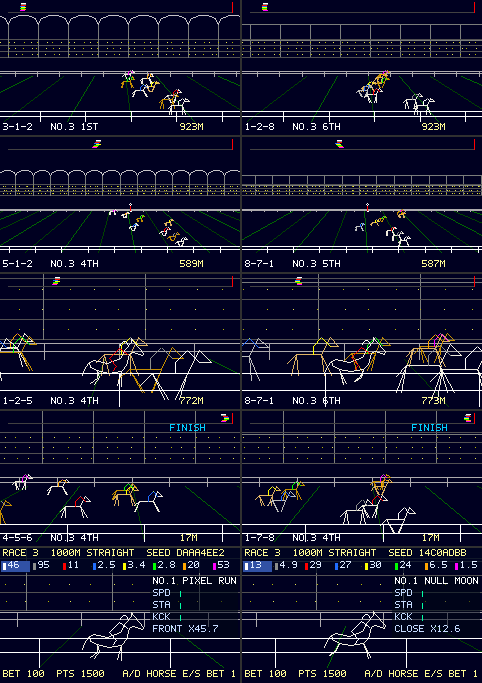
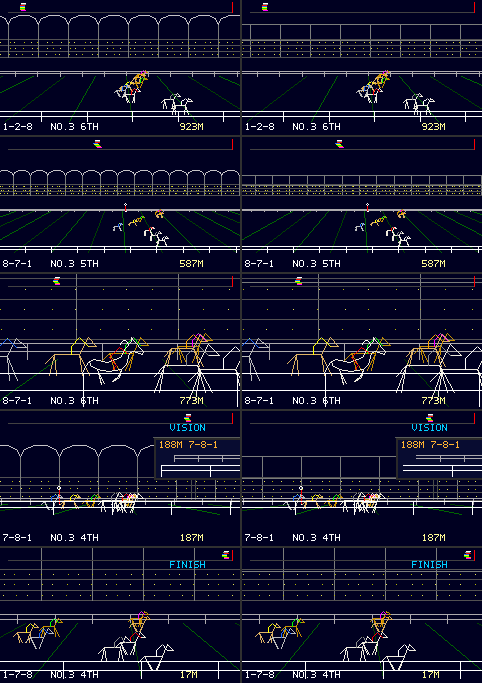
docs(derby): number types on the VM, the unified camera, shortcuts
Device: an int32 add is 1.59 us against 2.25 for a double, a Q16
multiply 2.24 against 2.49; the interpreter's dispatch dominates, so
fixed point would save about 1 ms at most (tools/games/pancost/num).
Stage 3b (every camera through the panning projection): guest +6.9 KB
over stage 2 (stage 3 +11.1), 27 plans, eval margin 18,667 B, but the
side WIDE drops to 25.7 fps and LOADSTALL stays; fewer Newton steps err
by 1.8 to 40 px and save no memory (a plan's size is fixed). The table
in docs/apps/derby-pan-memory.md shows how far each condition stays.

Claude-Session: https://claude.ai/code/session_015dmtSzSe5gccZdUgWX7xC5

diff --git a/tools/games/pancost/num/derby_watch.js b/tools/games/pancost/num/derby_watch.js
@@ -1,0 +1,65 @@
+// Number-type bench (docs/apps/derby-pan-camera-cost.md "整数と倍精度"): runs
+// from the DERBY WATCH row in a DERBY_BGCOST_SOURCE image. Each case [name,
+// n] holds for HOLD frames and is announced by one 'BGS name n' line; the per
+// iteration cost is the slope of the JS turn (MDT js=) over n, less the empty
+// loop's (tools/games/pancost/pancost_device.py). QuickJS keeps small
+// integers as tagged int32 and everything else as IEEE doubles; the S3's FPU
+// is single precision only.
+(function () {
+  'use strict';
+  const M = Math, imul = M.imul;
+  let sink = 0;
+  const A64 = [], I32 = new Int32Array(64), I16 = new Int16Array(64), F32 = new Float32Array(64), F64 = new Float64Array(64);
+  for (let i = 0; i < 64; ++i) { A64.push(i); I32[i] = i; I16[i] = i; F32[i] = i + .5; F64[i] = i + .5; }
+  // Loop bodies. i* keep int32 (results stay small or are truncated), d*
+  // are doubles, q* fixed point (Q8, Q16) in int32.
+  const JS = {
+    loop: n => { for (let i = 0; i < n; ++i) {} },
+    iadd: n => { let s = 1; for (let i = 0; i < n; ++i) s = (s + 7) & 1023; sink = s; },
+    iadd0: n => { let s = 1; for (let i = 0; i < n; ++i) s = s + 7; sink = s; },
+    imul: n => { let s = 1; for (let i = 0; i < n; ++i) s = (s * 3) & 1023; sink = s; },
+    iimul: n => { let s = 1; for (let i = 0; i < n; ++i) s = imul(s, 7) | 1; sink = s; },
+    icmp: n => { let s = 0; const b = 500; for (let i = 0; i < n; ++i) if (i < b) s = 1; sink = s; },
+    ishl: n => { let s = 1; for (let i = 0; i < n; ++i) s = (s << 1) & 65535 | 1; sink = s; },
+    ishr: n => { let s = 65535; for (let i = 0; i < n; ++i) s = (s >> 1) | 32768; sink = s; },
+    q8: n => { let s = 300; const b = 257; for (let i = 0; i < n; ++i) s = (s * b) >> 8; sink = s; },
+    q16: n => { let s = 30000; const b = 32767; for (let i = 0; i < n; ++i) s = (s * b) >> 15; sink = s; },
+    q16i: n => { let s = 30000; const b = 32767; for (let i = 0; i < n; ++i) s = imul(s, b) >> 15; sink = s; },
+    dadd: n => { let s = 1.5; const b = .37; for (let i = 0; i < n; ++i) s = s + b; sink = s; },
+    dmul: n => { let s = 1.5; const b = 1.0000001; for (let i = 0; i < n; ++i) s = s * b; sink = s; },
+    ddiv: n => { let s = 1.5; const b = 1.0000001; for (let i = 0; i < n; ++i) s = s / b; sink = s; },
+    dcmp: n => { let s = 0; const a = 1.5, b = 2.5; for (let i = 0; i < n; ++i) if (a < b) s = 1; sink = s; },
+    mix: n => { let s = 1.5; for (let i = 0; i < n; ++i) s = s + 7; sink = s; },
+    mixm: n => { let s = 0; const b = .5; for (let i = 0; i < n; ++i) s = i * b; sink = s; },
+    ar: n => { let s = 0; for (let i = 0; i < n; ++i) s = A64[i & 63]; sink = s; },
+    aw: n => { for (let i = 0; i < n; ++i) A64[i & 63] = 7; },
+    i32r: n => { let s = 0; for (let i = 0; i < n; ++i) s = I32[i & 63]; sink = s; },
+    i32w: n => { for (let i = 0; i < n; ++i) I32[i & 63] = 7; },
+    i16r: n => { let s = 0; for (let i = 0; i < n; ++i) s = I16[i & 63]; sink = s; },
+    i16w: n => { for (let i = 0; i < n; ++i) I16[i & 63] = 7; },
+    f32r: n => { let s = 0; for (let i = 0; i < n; ++i) s = F32[i & 63]; sink = s; },
+    f32w: n => { const x = 2.37; for (let i = 0; i < n; ++i) F32[i & 63] = x; },
+    f64r: n => { let s = 0; for (let i = 0; i < n; ++i) s = F64[i & 63]; sink = s; },
+    f64w: n => { const x = 2.37; for (let i = 0; i < n; ++i) F64[i & 63] = x; }
+  };
+  const CASES = [];
+  for (const k in JS) for (const n of [0, 500, 1000]) CASES.push([k, n]);
+  const HOLD = 40, V = pocket.kasane, H = V.procedural, log = m => console.log('BGS ' + m);
+  H.beginFrame(0);
+  const res = H.resource(), dot = H.register([[7, 0, 0, 1, 0, 0], [9, 0, 0, 1, 0, 65535]]);
+  let t = 0, built = 0;
+  globalThis.frame = function () {
+    const c = CASES[(t / HOLD | 0) % CASES.length];
+    if (t % HOLD === 0) log(c[0] + ' ' + c[1]);
+    ++t;
+    H.beginFrame(0);
+    H.draw(dot, [120, 130]);
+    JS[c[0]](c[1]);
+    H.commit();
+    if (!built) {
+      built = 1;
+      V.replace(tx => { tx.background(255); tx.image({resource: res, bounds: [0, 0, 240, 135], sourceWidth: 240, sourceHeight: 135}); });
+    } else V.patch(() => {});
+  };
+  log('READY cases=' + CASES.length);
+})();

diff --git a/tools/vmtest/retain_cost.py b/tools/vmtest/retain_cost.py
@@ -6,7 +6,8 @@ versus precompiled bytecode with and without line tables (host, WSL only).
       from apps/derby or from DIR (e.g. a `git show` export: WSL's git may not
       read a worktree's gitdir, CLAUDE.md); prints the three modes of
       tools/vmtest/retain_cost.c.
-  python3 tools/vmtest/retain_cost.py --parts [DIR]
+  python3 tools/vmtest/retain_cost.py --parts|--side [DIR]
+      (--side: the side view's course() and plan strings instead)
       stage 3 of the panning cameras (the wip commit on vm/pan-camera, docs/apps/
       derby-pan-memory.md): each of its top-level functions and plan strings
       removed in turn from those chunks (apps/derby or DIR), and what the
@@ -60,6 +61,9 @@ def charged(binary, mode, paths):
 
 # Stage 3's parts: (chunk, how to find the part). A function is cut from its
 # 'function NAME(' (or 'const NAME =') line to the next top-level line.
+SIDE = [("derby_view.js", "function course("), ("derby_prog.js", "  rail: '"), ("derby_prog.js", "  turf: '"),
+        ("derby_prog.js", "  stands: '"), ("derby_prog.js", "  crowd: '"), ("derby_prog.js", "  gate: '"),
+        ("derby_prog.js", "  pole: '")]
 PARTS = [("derby_scene.js", "function pan("), ("derby_scene.js", "function ser("), ("derby_scene.js", "function hl("),
          ("derby_scene.js", "function pj("), ("derby_scene.js", "function lim("), ("derby_scene.js", "function inr("),
          ("derby_view.js", "function wide("), ("derby_view.js", "const rin ="), ("derby_view.js", "function feed("),
@@ -84,12 +88,12 @@ def main():
     binary = build()
     with tempfile.TemporaryDirectory() as t:
         d = Path(t)
-        if sys.argv[1:2] == ['--parts']:
+        if sys.argv[1:2] in (['--parts'], ['--side']):
             src = sys.argv[2] if len(sys.argv) > 2 else None
             paths = files(src, d)
             whole, _ = charged(binary, 'src', paths)
             print(f"stage 3 chunks compiled: {whole} B")
-            for chunk, start in PARTS:
+            for chunk, start in (PARTS if sys.argv[1] == '--parts' else SIDE):
                 files(src, d)
                 p = d / chunk
                 p.write_text(cut(p.read_text(encoding='utf-8'), start), encoding='utf-8')

diff --git a/tools/games/pancost/pancost_device.py b/tools/games/pancost/pancost_device.py
@@ -38,6 +38,7 @@ def slope(points):
 def main() -> int:
     ap = argparse.ArgumentParser()
     ap.add_argument("logs", nargs="+", type=Path)
+    ap.add_argument("--all-js", action="store_true", help="every case is a JS loop (tools/games/pancost/num)")
     args = ap.parse_args()
 
     def state_of(line, state):
@@ -68,7 +69,7 @@ def main() -> int:
         cells = " ".join(f"{n}:{js:.0f}({len(by_n[n])})" for n, js in pts)
         s, b = slope(pts)
         ds = slope(dr)[0]
-        net = f"{s - loop:.3f}" if loop is not None and name in JS_CASES else "-"
+        net = f"{s - loop:.3f}" if loop is not None and (args.all_js or name in JS_CASES) else "-"
         print(f"{name} | {cells} | {' '.join(f'{d:.0f}' for _, d in dr)} | {s:.3f} | {net} | {ds:.3f} | {b:.0f} | {slope(bd)[0]:.3f}")
     return 0
 

diff --git a/docs/apps/derby-pan-memory.md b/docs/apps/derby-pan-memory.md
@@ -92,3 +92,54 @@ host の評価後のゲスト（m32、段階 2 からの増分。累積で削っ
 - 実機の値の換算（host の 1.3 倍）は 1 点（段階 3 そのまま）の比から。削った版は実機で測っていない。
 - 部分ごとの量は「その部分を消した差」で、共有の atom や、消したことで変わる他の関数のバイトコードを含む（合計は全体と一致しない: 部分の和 7.7 KB、全体 9.4 KB）。
 - (c) の −3.7 KB は host のコンパイル済みの値。実行後の定常にも同じだけ効く（行番号表は関数と一緒に残る）と見込むが、実機では測っていない。
+
+## 4. 横見を首振りの系に統合する（段階 3b、ブランチの 2 つ目の wip コミット）
+
+ユーザーの提案「カメラの統合」。横見の台は「視線がコースの法線に沿う首振り」の特別な場合なので、`course()` を 1 つの投影（`pj()`・`ser()`）で全カメラを描く形にした。plan は高さと地平線を入力で受け（x と z を h·f で割って渡す。1 本目の 1/Z~ は 1 から Newton 20 回）、横見専用の `rail`・`turf`・`stands`・`crowd` の plan を消した。観客は今の見た目のまま（`T.crowd` と同じ sin の散らし・2 色・瞬き。12 m の区画ごとに Newton 3 回、64 命令）。スタンドの屋根の弧は描けなくなった（まっすぐな屋根と中段の線。レジスタが足りず `CUBIC` の 8 本を空けられない）。
+
+**host**（`run_derby.py`、ASan と `--m32`、全 16 回 PASS）: 着順・完走時刻・デモ・種・オッズ・R 再生の行は基準と一致。Newton の誤差はパネル上で最大 0.011 px（LIGHT、f 331）。横見の絵は基準と同じ種・同じフレームで 0.7〜3.4 % の画素が違う（WIDE 3.0 %、FIELD 3.4 %、CLOSE 1.0 %、VISION 2.0 %、FINISH 1.2 %、パドック 0.7 %）。違いの大半は屋根の弧と観客の点の散らし方。
+
+![左: 基準、右: 統合（上から WIDE、FIELD、CLOSE、VISION、FINISH）](derby-unify-preview.png)
+
+| | 基準 | 段階 3 | 統合（3b） |
+| --- | ---: | ---: | ---: |
+| host m32 評価後のゲスト（段階 2 からの増分） | — | +11.1 KB | **+6.9 KB** |
+| コンパイル済みの常駐（`retain_cost.py`） | 53,496 | 63,796 | 60,888 |
+| 同時に載る plan | 25 | 30 | 27 |
+| 実機: 評価の余裕 | 29,969 | 15,242 | **18,667** |
+| 実機: 評価直後のゲスト | 115,124 | 129,620 | 126,268 |
+| 実機: ゲストの最大 | 128,736 | 143,040 | 139,484 |
+| 実機: ターン内の空きの最小 | 13,256 | 5,156 | 5,332 |
+| 実機: `GO LOADSTALL` | なし | 毎レース | 毎レース |
+| 実機 MID: 横見 WIDE fps（JS 中央値 ms） | 29.7（14.2） | 28.5（16.5） | **25.7（20.3）** |
+| 実機 MID: FIELD / VISION / CLOSE fps | 29.5 / 26.7 / 29.8 | 28.6 / 26.9 / 29.8 | 25.5 / 24.0 / 28.7 |
+| 実機 MID: 首振り fps（JS ms） | — | 27.3〜27.8（18〜19、plan が載らない） | 23.3〜23.4（23.5〜23.8） |
+| 実機 HEAVY: 横見 WIDE / FIELD fps | 29.2 / 28.0 | 27.4 / 27.2 | 24.7 / 24.0 |
+
+実機の値は診断 image（`-DKASANE_MEGADEMO_TRACE=ON -DKASANE_BGCOST_TRACE=ON -DPOCKET_KEYTEST=ON`）で MID・HEAVY のデモ各 3 レース、評価の余裕は `heapprobe` の二分探索。段階 3 と統合は plan が全部は載っていない（`LOADSTALL`）状態の値なので、載ればターン内の最小はさらに下がり、fps も下がる。
+
+- **統合はゲストを約 4 KB、plan を 3 本減らした**が、横見が遅くなった: 横見の直線は奥行きが一定なので本来は「拡大＋平行移動」で済むのに、統合では 1 本ごとの Newton の立ち上げ（60 ステップ）、柱 1 本ごとの Newton（9 ステップ）、区画ごとの Newton と点の補間が乗る。横見 WIDE の JS が 14.2 → 20.3 ms（実測）。u = 0 で Newton が「退化して安く」はならない（plan は同じ命令を実行する。分岐が無い）。
+- 楕円（段階 4）への見通し: 統合した系は直線の区間ごとに `ser()` を呼ぶ形で、弧は折れ線の区間の列として同じ plan で描ける（点が直線上に並ぶ前提は区間の中だけ）。ただし上の費用はそのまま残る。
+
+## 5. 精度を落とす・式を縮める（数学の近道）
+
+- **plan の常駐メモリは命令数によらない**（`ksn_proc_plan` は `code[64]` を固定で持つ、`ksn_proc_plan.h`）。命令を減らしても、減るのは VM の時間だけ。メモリに効くのは plan の本数と JS のコード。
+- **Newton を減らす**（host、LIGHT・MID、`DERBY_PAN=0`、統合の版）: 3 回 → 2 回でパネル上の最大誤差 3.8 px（LIGHT）・1.8 px（MID）、1 回で 40 px・28 px。最悪は観客の手前の区画（12 m の区画は近いと奥行きの比が 0.5 を超える）。0.5 px に収めるには、手前の区画を細かい歩幅で描く（draw が増える）か、1 回 1 区画にする必要があり、時間の得は相殺される（推定）。命令は prail 53→50、pt 62→56、観客 64→61 で、メモリは変わらない。
+- **plan の本数を減らす**: 芝の 2 色（`t0`/`t1`）は、1 本の draw の中で色を入れ替えれば 1 本にできる（1 縞 +4 命令、plan −1 本 = ネイティブ −0.87 KB、推定）。観客の 2 色（`c0`/`c1`、瞬きの位相）は、観客の plan が 64 命令・入力 8 個を使い切っていて 1 本にできない。`hl` を `prail` に入れるのも命令が足りない。
+- **式を畳む**: 視野の 4 つの不等式（`lim`）を配列 1 つのループにする、`inr`・`hl` を呼び出し側に入れる、は小さな関数の固定費 約 200 B ずつで、合わせて 0.5〜1 KB（推定）。遠→近の Newton の代わりに「前の 2 点からの一次外挿＋Newton 1 回」は、1 点 1 演算の得（時間）で、レジスタが 1 本要る（観客と柵の plan には空きが無い）。投影を「画面 x = (a + bt)/(c + dt)」として 1 点ずつ Newton で割るのは今の形そのもので、これ以上畳めない。
+
+## 6. 受け入れ条件との差（一覧）
+
+条件: `LOADSTALL` なし、ターン内の空きの最小 ≥ 11,208 B（基準 13,256 − 2 KB）、評価の余裕 ≥ 20 KB、ゲストの最大 ≤ 140 KB、fps ≥ 27。「実測」の行以外は推定（host の差 × 1.3 で実機に換算、plan 1 本 872 B）。
+
+| 構成 | ターン内の最小 | 評価の余裕 | ゲストの最大 | fps（横見 WIDE / 首振り） | LOADSTALL |
+| --- | ---: | ---: | ---: | --- | --- |
+| 段階 3（実測） | 5,156（−6.1 KB） | 15,242（−5.2 KB） | 143,040（+3 KB 超） | 28.5 / 27.3（plan 未載） | あり |
+| 統合 3b（実測） | 5,332（−5.9 KB） | 18,667（−1.8 KB） | 139,484（満たす） | **25.7 / 23.3（−1.3 / −3.7 fps）** | あり |
+| 3b ＋ 芝を 1 本 | 約 6.2 KB（−5.0） | 同じ | 同じ | ほぼ同じ | あり |
+| 3b ＋ 首振りの画面の経路を外す | 約 7.0 KB（−4.2） | 約 19.4 KB | 約 138.7 KB | 同じ | あり |
+| 3b ＋ 行番号表を落とす VM の変更（アプリ全体 −3.7 KB × 1.3） | 約 11.8 KB（満たす見込み） | 約 24 KB（満たす） | 約 134 KB | 同じ | 境目 |
+| 段階 3（横見はそのまま）＋ 行番号表を落とす | 約 10 KB（−1.2） | 約 20 KB（境目） | 約 138 KB | 28.5 / 27 前後 | 境目 |
+
+- 時間の条件は統合で悪くなる（横見 WIDE 25.7 fps）。統合で得たメモリ（約 4 KB と plan 3 本）と引き換えに、横見の fps を 4 落とす。
+- **メモリの条件に届くのは、アプリの外の変更（行番号表を落とす VM の変更、約 5 KB）を足した場合だけ**。その場合も、plan が全部載った状態のターン内の最小は測っていない（今の実測は `LOADSTALL` で plan が欠けた状態）。

diff --git a/docs/apps/derby-pan-camera-cost.md b/docs/apps/derby-pan-camera-cost.md
@@ -266,3 +266,26 @@ fps は「背景なしの固定費 27.6 ms ＋ 背景」が 33.3 ms を超えた
 - fps の換算は MID FIELD の固定費 27.6 ms を全段階に当てたもの。大型画面が映るフレーム（＋約 2.5 ms）は表に入れていない。
 - §4 のタイルの費用は、ランダムウォーク（1 歩 1〜3 px）の折れ線で測った。歩幅が大きいノイズは線分が長くなり、帯描画が増える。「要ネイティブ」の列は、登録済みのタイルの実測に入力の読み取りを足した見込みで、ネイティブの変更そのものは測っていない。
 - 線分の数（§3 の上限の話）は、柱×3・区画×6 などの数え方による計算で、実装では変わる。
+
+## 5. 整数と倍精度（追加、2026-09-30、ブランチ `vm/pan-camera`）
+
+問い「固定小数点化や型の変更で速くなるか」。測定器 [`tools/games/pancost/num/derby_watch.js`](../../tools/games/pancost/num/derby_watch.js)（§1 と同じ仕組み、27 ケース × n = 0/500/1000、各 40 フレーム）。`bgcost_device.py run --seconds 230`、集計は `pancost_device.py --all-js`。**表は実機の実測**（1 回の実行、各点 74〜111 ターンの中央値）。ループ 1 周の本体の µs（空ループ 2.87 µs を引いた値）。
+
+| 演算 | µs | | 演算 | µs |
+| --- | ---: | --- | --- | ---: |
+| 整数の加算 `s + 7`（int32 のまま） | 1.59 | | 倍精度の加算 | 2.25 |
+| 整数の加算とマスク `(s + 7) & 1023` | 2.09 | | 倍精度の乗算 | 2.49 |
+| 整数の乗算とマスク `(s * 3) & 1023` | 2.08 | | 倍精度の除算 | 4.86 |
+| `Math.imul(s, 7) \| 1` | 4.79 | | 倍精度の比較 | 3.16 |
+| 整数の比較 | 1.72 | | 倍精度 ＋ 整数 | 2.99 |
+| シフトとマスク `(s << 1) & 65535 \| 1` | 2.28 | | 整数 × 倍精度 | 3.46 |
+| Q8 の乗算 `(s * b) >> 8` | 2.25 | | 配列の読み・書き | 2.72・3.38 |
+| Q16 の乗算 `(s * b) >> 15` | 2.24 | | `Int32Array` の読み・書き | 2.64・3.72 |
+| Q16 を `imul` で | 5.10 | | `Int16Array` の読み・書き | 2.69・3.72 |
+| | | | `Float32Array` の読み・書き | 2.92・4.27 |
+| | | | `Float64Array` の読み・書き | 2.76・4.19 |
+
+- **整数は倍精度の 2 倍速くない。** 加算 1.4 倍、比較 1.8 倍、乗算は 1 回ぶんで 1.2 倍程度。固定小数点の乗算（乗算＋シフト 2.24 µs）は倍精度の乗算 1 回（2.49 µs）とほぼ同じで、`Math.imul` は関数呼び出しで 2 倍遅い。整数と倍精度を混ぜると倍精度より遅い（2.99・3.46 µs）。1 周 2.87 µs の空ループ（命令の取り出しと分岐）と同じ桁で、インタプリタの 1 命令の費用が支配的（推定）。
+- **固定小数点化の見込み**（推定）: DERBY の「その他の JS」約 10 ms のうち、四則だけが 1.2〜1.4 倍になっても、plan の入力（浮動小数）への変換や `Math` の関数は残るので、削れるのは 1 ms 前後が上限。レースのモデル（`step()`）は倍精度で全桁一致を約束しているので、変えると再現性の検査からやり直しになる。**価値は低い**と判断した。
+- 型付き配列は読むのが速くならない（2.64〜2.92 µs、通常の配列 2.72 µs）。書き込みは遅い（3.7〜4.3 µs、通常 3.38 µs）。
+- 数値の表を型付き配列や文字列にしたときの heap（計算）: 通常の配列は 1 要素 8 B（実機の JSValue）、`Int16Array` は 2 B ＋ オブジェクト約 100 B、文字列は atom で 1 文字 1 B。HEAD ON の点列 `HD`（88 個）で 約 0.7 KB → 0.3 KB。首振りの heap の問題（[derby-pan-memory.md](derby-pan-memory.md)、関数と atom）には効かない。
